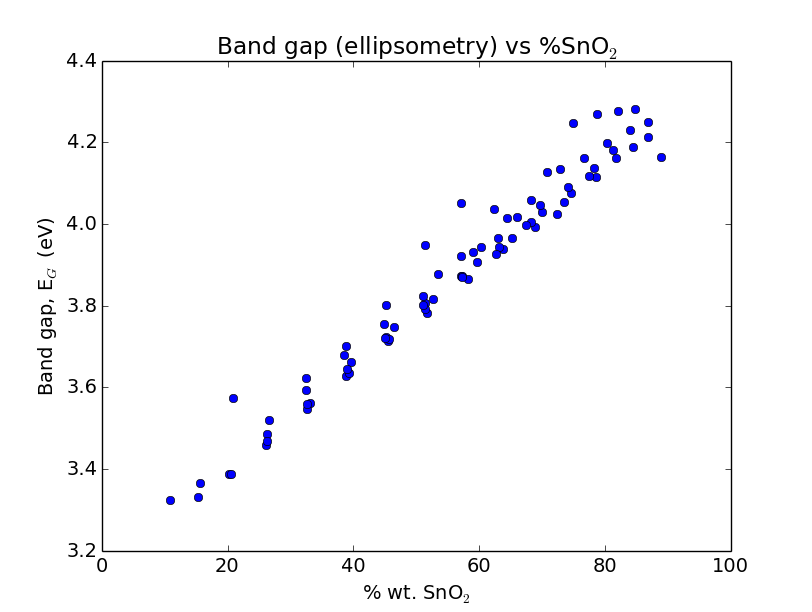
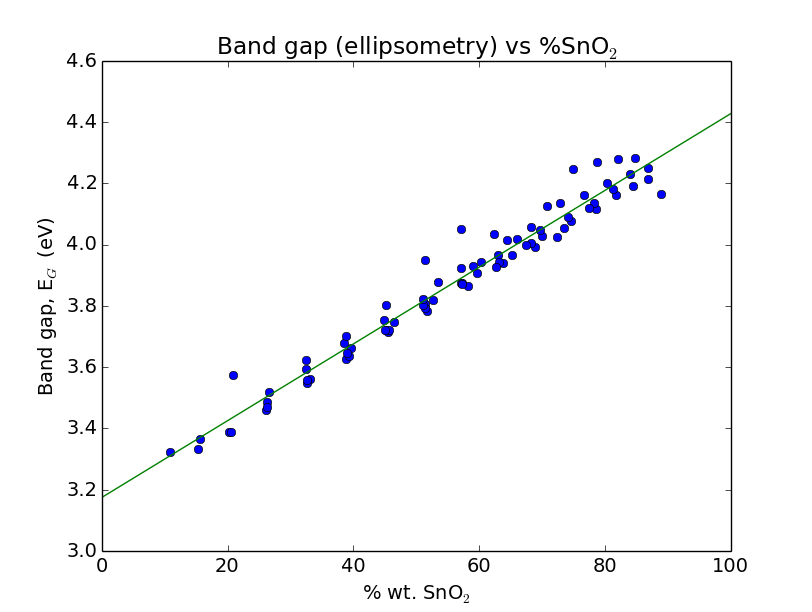
new image

diff --git a/band_gap_analysis/profile3.py b/band_gap_analysis/profile3.py
@@ -4,7 +4,7 @@ from mpl_toolkits.mplot3d import axes3d
 import matplotlib.pyplot as plt
 from matplotlib import cm
 from matplotlib.mlab import griddata
-
+from scipy import stats
 
 font = {'size'   : 14}
 matplotlib.rc('font', **font)
@@ -24,6 +24,11 @@ z_sno2 = z1-z3
 z_zno = z3*4.04
 z = z_sno2/(z_sno2+z_zno)*100
 
+slope, intercept, r_value, p_value, st_err = stats.linregress(z,z4)
+print slope, intercept
+
+x_lin = np.linspace(0,100,100)
+y_lin = slope*x_lin + intercept
 
 xi = np.linspace(-5, 5, 11)
 yi = np.linspace(-5, 5, 11)
@@ -43,10 +48,12 @@ ax3.set_xlim(0,100)
 ax3.set_title('Band gap (ellipsometry) vs %SnO$_{2}$')
 ax3.set_ylabel('Band gap, E$_G$ (eV)')
 ax3.set_xlabel('% wt. SnO$_{2}$')
+ax3.plot(x_lin, y_lin)
+
+
 lvls = arange(min(z), max(z), (max(z)-min(z))/10)
 ##lvls = arange(140,350,20)
 plot2 = ax2.contourf(X, Y, Z, zdir='z', levels= lvls, cmap=cm.jet, alpha = 1.0)
-
 #cbar = colorbar(plot2, ticks = lvls)
 #cbar.set_label("Zn/(Cd+Zn), $x$", fontsize = 16)
 ax2.set_xlabel("X (cm)")
